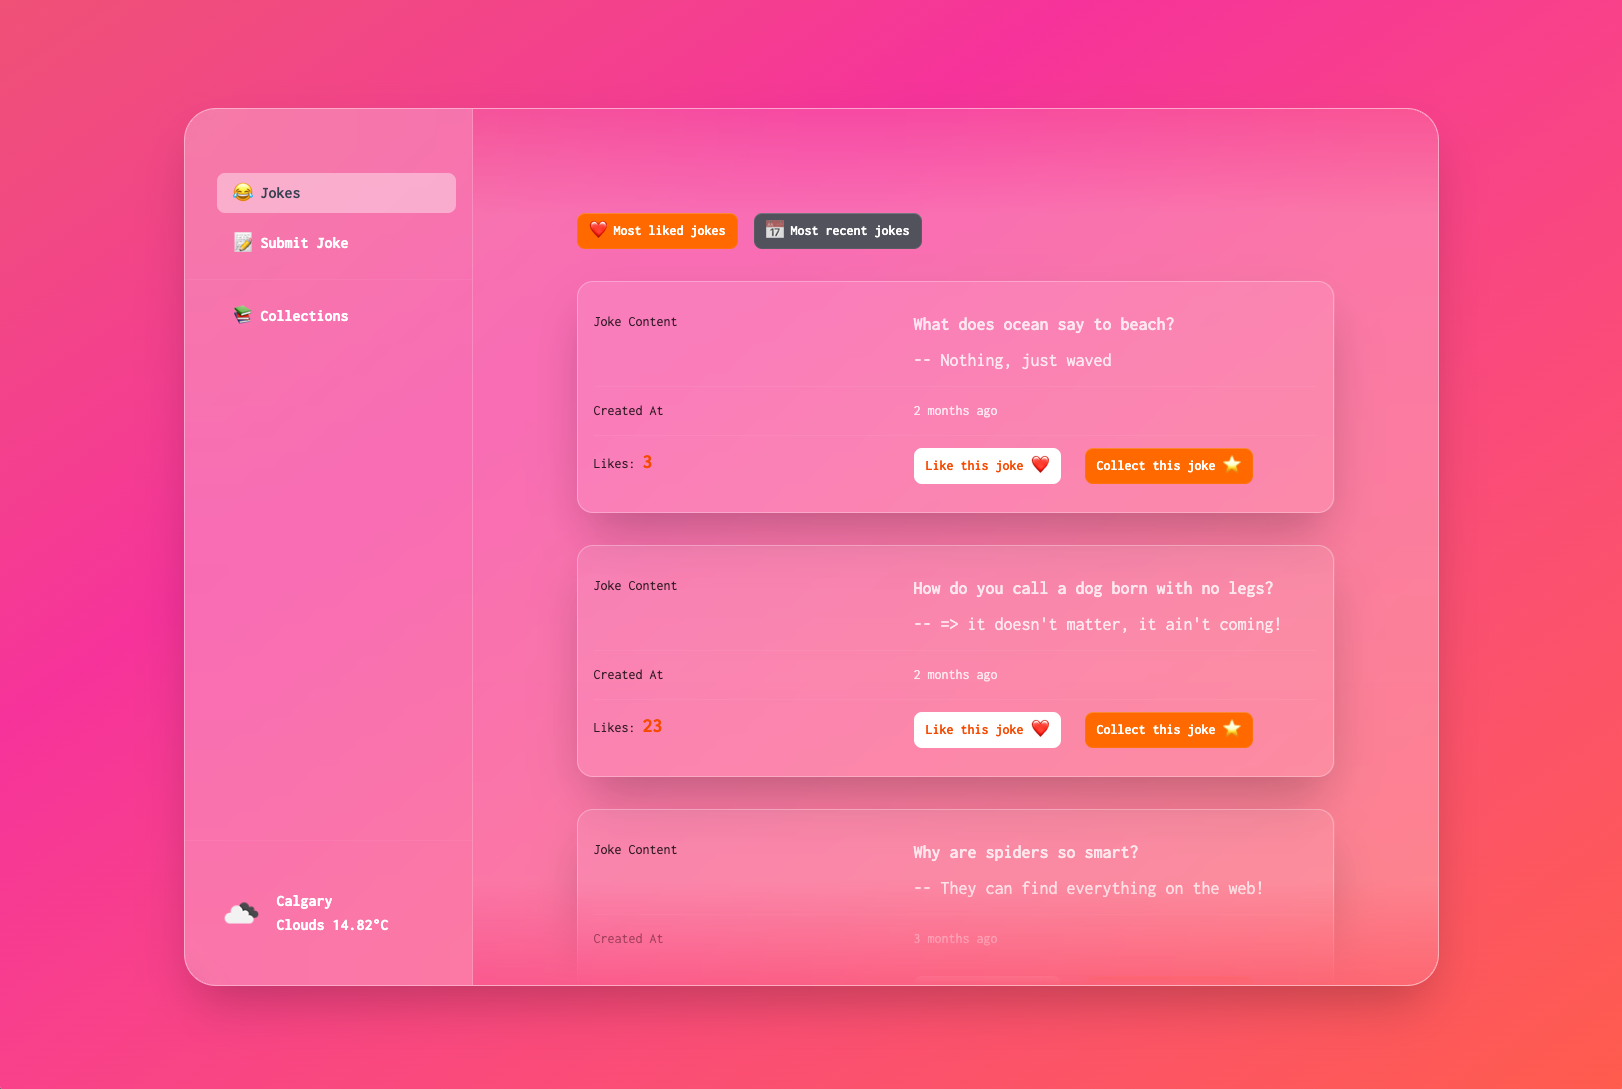
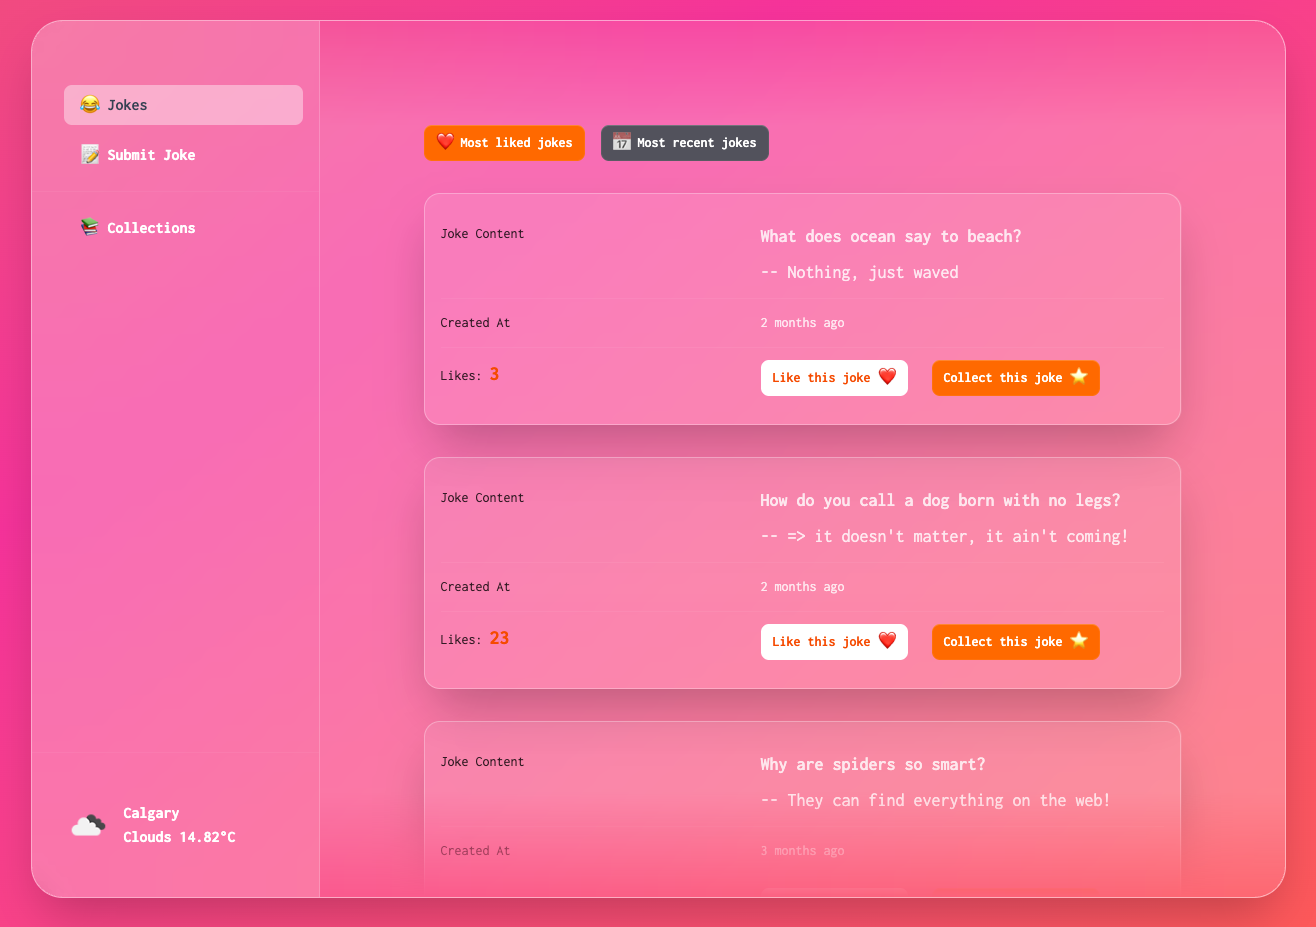
adjust pictures

diff --git a/README.md b/README.md
@@ -6,11 +6,15 @@ Backend for **Jokes Share**, a small web app for browsing, liking, and submittin
 
 [https://api.owenouyang.com/api/jokes](https://api.owenouyang.com/api/jokes)
 
-![API](./public/readme/api.png)
+<p align="left">
+  <img src="./public/readme/api.png" alt="API" width="50%" />
+</p>
 
 [https://owenouyang.com](https://owenouyang.com)
 
-![Site](./public/readme/jokes.png)
+<p align="left">
+  <img src="./public/readme/jokes.png" alt="Site" width="50%" />
+</p>
 
 ## Overview
 
